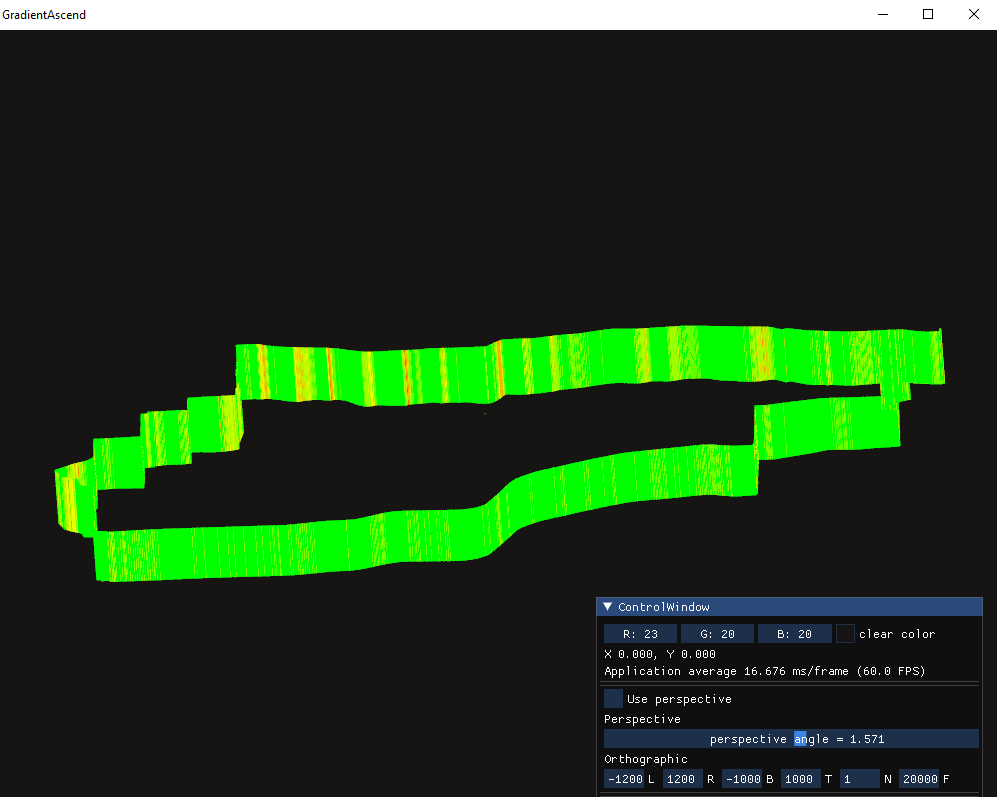
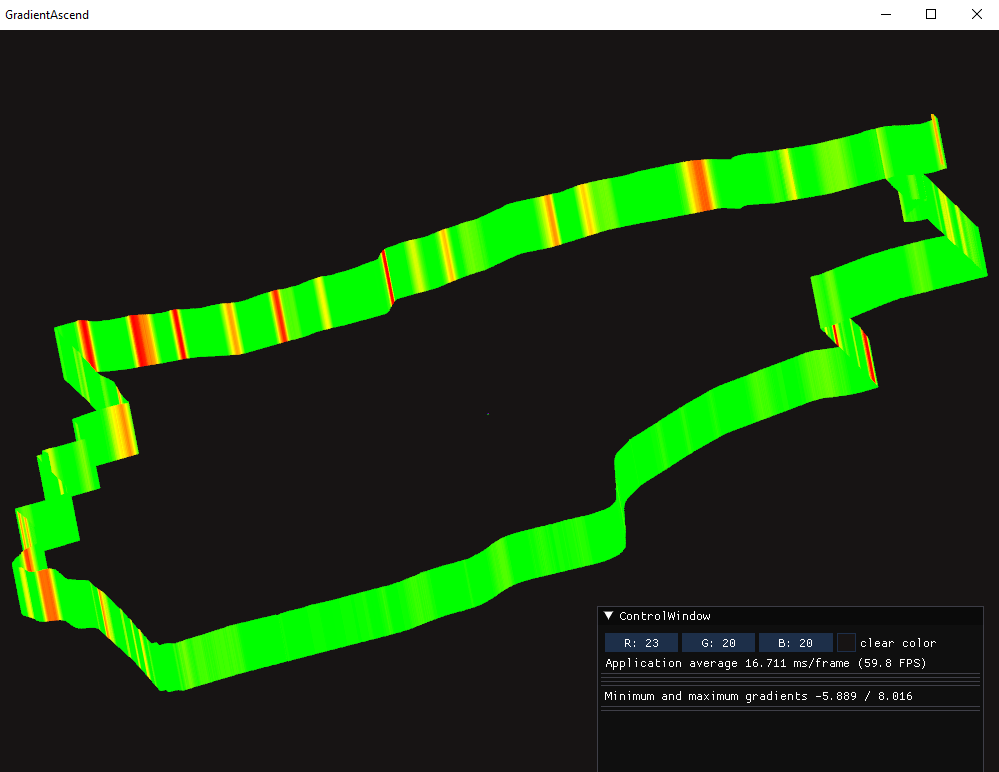
added gradient smoothing function....but maybe need elevation smoothing instead...

Changed region(s): [[0.0, 0.1554, 0.995, 1.0], [0.0, 0.0, 0.0933, 0.0311]]

diff --git a/include/utilities.h b/include/utilities.h
@@ -113,3 +113,36 @@ inline float getMeanRouteGradient(const std::vector<std::tuple<int, int, float, 
 
 	return mean;
 }
+
+inline void smoothGradient(std::vector<std::tuple<int, int, float, float>>& rt, size_t windowSize = 21)
+{
+	if (rt.empty()) return;
+
+	size_t n = rt.size();
+	std::vector<float> values(n);
+	for (size_t i = 0; i < n; ++i) {
+		values[i] = std::get<3>(rt[i]);
+	}
+
+	float sum = 0.0f;
+
+	for (size_t ii = 0; ii < n; ++ii)
+	{
+		sum += values[ii];
+
+		if (ii >= windowSize)
+		{
+			sum -= values[ii - windowSize];
+		}
+
+		if (ii < windowSize - 1)
+		{
+			std::get<3>(rt[ii]) = 0.0f;
+		}
+		else
+		{
+			float average = sum / static_cast<float>(windowSize);
+			std::get<3>(rt[ii]) = average;
+		}
+	}
+}

diff --git a/source/data_handle/main.cpp b/source/data_handle/main.cpp
@@ -38,7 +38,8 @@ int main()
 	GDALAllRegister();
 
 	//fs::path testgpxpath(R"(D:\Files\GradientAscent\data\Afternoon_Ride.gpx)");
-	fs::path testgpxpath(R"(D:\Files\GradientAscent\data\Afternoon_Ride_09272026.gpx)");
+	fs::path testgpxpath(R"(D:\Files\GradientAscent\data\Lunch_Ride.gpx)");
+	//fs::path testgpxpath(R"(D:\Files\GradientAscent\data\Afternoon_Ride_09272026.gpx)");
 
 	std::vector<std::tuple<int, int, float, float>> routeData;
 
@@ -116,6 +117,8 @@ int main()
 		std::cout << std::format("Global exception: {}", e.what());
 		return 0;
 	}
+
+	smoothGradient(routeData, 21);
 
 	float minimumGraident = getMinRouteGradient(routeData);
 	float maximumGradient = getMaxRouteGradient(routeData);
